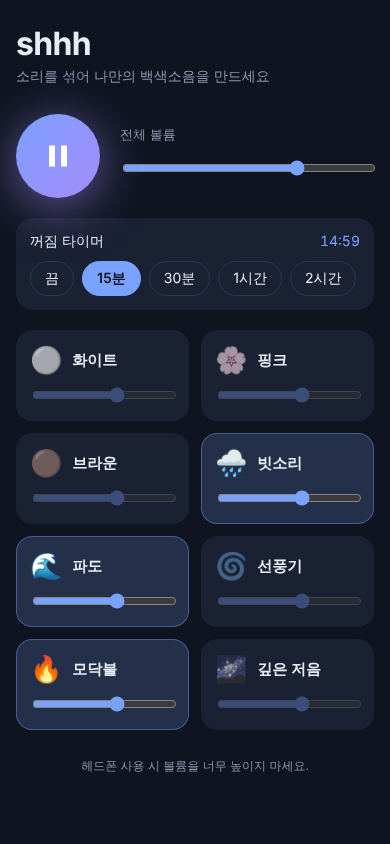
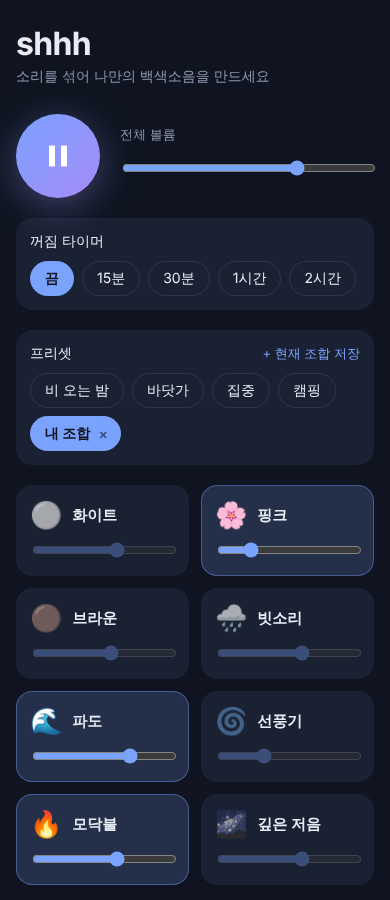
프리셋 저장 기능 추가
기본 프리셋 4종(비 오는 밤, 바닷가, 집중, 캠핑)과 현재 소리 조합을
이름 붙여 저장/불러오기/삭제하는 기능. 현재 조합과 일치하는 프리셋 강조.
삭제/덮어쓰기 확인은 브라우저 대화상자 대신 화면 안에서 처리.

Claude-Session: https://claude.ai/code/session_012LiPeNdYmeGdPvMoY54dFu

diff --git a/app.js b/app.js
@@ -12,11 +12,24 @@
   const tpl = $('#sound-tpl');
   const remainingEl = $('#remaining');
   const chips = document.querySelectorAll('#timer-chips .chip');
+  const presetList = $('#preset-list');
+  const presetForm = $('#preset-form');
+  const presetName = $('#preset-name');
+  const presetSave = $('#preset-save');
+
+  // 기본 제공 프리셋 (삭제 불가). mix: 소리 id -> 볼륨
+  const BUILTIN_PRESETS = [
+    { id: 'b-rain', name: '비 오는 밤', mix: { rain: 60, deep: 35 } },
+    { id: 'b-sea', name: '바닷가', mix: { ocean: 70, pink: 20 } },
+    { id: 'b-focus', name: '집중', mix: { brown: 55, fan: 30 } },
+    { id: 'b-camp', name: '캠핑', mix: { fire: 65, rain: 25 } },
+  ];
 
   const state = load() || {
     master: 70,
     sounds: { rain: { on: true, vol: 60 } },
   };
+  if (!Array.isArray(state.presets)) state.presets = [];
 
   let ctx = null;
   let masterGain = null;
@@ -180,6 +193,118 @@
     }
   }
 
+  // ---------- 프리셋 ----------
+  function currentMix() {
+    const mix = {};
+    Noise.sounds.forEach((s) => {
+      const st = soundState(s.id);
+      if (st.on) mix[s.id] = st.vol;
+    });
+    return mix;
+  }
+
+  function sameMix(a, b) {
+    const ka = Object.keys(a);
+    return ka.length === Object.keys(b).length && ka.every((k) => a[k] === b[k]);
+  }
+
+  function applyPreset(preset) {
+    Noise.sounds.forEach((s) => {
+      const st = soundState(s.id);
+      const vol = preset.mix[s.id];
+      st.on = vol != null;
+      if (st.on) st.vol = vol;
+      if (!playing) return;
+      if (!st.on) stopSound(s.id);
+      else if (nodes[s.id]) ramp(nodes[s.id].gain.gain, curve(st.vol), FADE);
+      else startSound(s);
+    });
+    if (!playing) play();
+    render();
+    save();
+  }
+
+  function savePreset(name) {
+    const mix = currentMix();
+    const existing = state.presets.find((p) => p.name === name);
+    if (existing) existing.mix = mix;
+    else state.presets.push({ id: 'u-' + Date.now(), name, mix });
+    save();
+    renderPresets();
+  }
+
+  function deletePreset(id) {
+    state.presets = state.presets.filter((p) => p.id !== id);
+    save();
+    renderPresets();
+  }
+
+  function renderPresets() {
+    const mix = currentMix();
+    presetList.textContent = '';
+    BUILTIN_PRESETS.concat(state.presets).forEach((p) => {
+      const el = document.createElement('div');
+      el.className = 'preset' + (sameMix(p.mix, mix) ? ' active' : '');
+
+      const apply = document.createElement('button');
+      apply.className = 'apply';
+      apply.textContent = p.name;
+      apply.addEventListener('click', () => applyPreset(p));
+      el.appendChild(apply);
+
+      if (p.id.startsWith('u-')) {
+        const del = document.createElement('button');
+        del.className = 'del';
+        del.textContent = '×';
+        del.setAttribute('aria-label', p.name + ' 삭제');
+        // 한 번 누르면 '삭제' 확인 상태, 다시 누르면 삭제
+        del.addEventListener('click', () => {
+          if (el.classList.contains('confirm')) return deletePreset(p.id);
+          el.classList.add('confirm');
+          del.textContent = '삭제';
+          setTimeout(() => {
+            el.classList.remove('confirm');
+            del.textContent = '×';
+          }, 3000);
+        });
+        el.appendChild(del);
+      }
+      presetList.appendChild(el);
+    });
+  }
+
+  function closePresetForm() {
+    presetForm.hidden = true;
+    presetName.value = '';
+    updateSaveLabel();
+  }
+
+  // 같은 이름이 있으면 버튼이 '덮어쓰기'로 바뀜
+  function updateSaveLabel() {
+    const name = presetName.value.trim();
+    presetSave.textContent = state.presets.some((p) => p.name === name) ? '덮어쓰기' : '저장';
+  }
+  presetName.addEventListener('input', updateSaveLabel);
+
+  $('#preset-add').addEventListener('click', () => {
+    if (!anyOn()) {
+      presetName.placeholder = '먼저 소리를 하나 이상 켜세요';
+    } else {
+      presetName.placeholder = '프리셋 이름';
+    }
+    presetForm.hidden = false;
+    presetName.focus();
+  });
+  $('#preset-cancel').addEventListener('click', closePresetForm);
+  presetName.addEventListener('keydown', (e) => { if (e.key === 'Escape') closePresetForm(); });
+  presetForm.addEventListener('submit', (e) => {
+    e.preventDefault();
+    const name = presetName.value.trim();
+    if (!name || !anyOn()) return;
+    savePreset(name);
+    closePresetForm();
+  });
+
   // ---------- UI ----------
   function updatePlayUI() {
     playBtn.setAttribute('aria-pressed', String(playing));
@@ -197,6 +322,7 @@
       el.querySelector('.toggle').setAttribute('aria-pressed', String(st.on));
       el.querySelector('.vol').value = st.vol;
     });
+    renderPresets();
   }
 
   function build() {
@@ -231,6 +357,7 @@
         } else if (nodes[s.id]) {
           ramp(nodes[s.id].gain.gain, curve(st.vol), 0.05);
         }
+        renderPresets();
         save();
       });
 

diff --git a/style.css b/style.css
@@ -6,6 +6,8 @@
   --muted: #8b95ad;
   --accent: #7aa2ff;
   --accent-2: #a78bfa;
+  --danger: #ff8a8a;
+  color-scheme: dark;
 }
 
 * { box-sizing: border-box; }
@@ -23,7 +25,9 @@ button { font: inherit; color: inherit; cursor: pointer; }
 .app {
   max-width: 520px;
   margin: 0 auto;
-  padding: calc(24px + env(safe-area-inset-top)) 16px calc(32px + env(safe-area-inset-bottom));
+  padding-block: calc(24px + env(safe-area-inset-top, 0px)) calc(32px + env(safe-area-inset-bottom, 0px));
+  padding-left: max(16px, env(safe-area-inset-left, 0px));
+  padding-right: max(16px, env(safe-area-inset-right, 0px));
 }
 
 .top h1 {
@@ -129,3 +133,75 @@ input[type="range"] {
 .sound.on .vol { opacity: 1; }
 
 .foot { margin-top: 28px; text-align: center; color: var(--muted); font-size: 12px; }
+
+.presets {
+  background: var(--card);
+  border-radius: 16px;
+  padding: 14px;
+  margin-bottom: 20px;
+}
+.presets-head {
+  display: flex;
+  justify-content: space-between;
+  align-items: center;
+  font-size: 14px;
+  margin-bottom: 10px;
+}
+.link {
+  border: 0;
+  background: none;
+  padding: 0;
+  color: var(--accent);
+  font-size: 13px;
+}
+.preset-form {
+  display: flex;
+  gap: 8px;
+  margin-bottom: 10px;
+}
+.preset-form[hidden] { display: none; }
+.preset-form input {
+  flex: 1;
+  min-width: 0;
+  border: 1px solid #2c3650;
+  background: var(--bg);
+  color: var(--text);
+  border-radius: 999px;
+  padding: 7px 14px;
+  font: inherit;
+  font-size: 16px; /* iOS 확대 방지 */
+}
+.preset-form input:focus { outline: none; border-color: var(--accent); }
+
+.preset {
+  display: inline-flex;
+  align-items: center;
+  border: 1px solid #2c3650;
+  border-radius: 999px;
+}
+.preset.active { background: var(--accent); border-color: var(--accent); color: #0f1420; font-weight: 600; }
+.preset .apply {
+  border: 0;
+  background: none;
+  color: inherit;
+  padding: 7px 14px;
+  font-size: 14px;
+}
+.preset .del {
+  border: 0;
+  background: none;
+  color: inherit;
+  opacity: 0.6;
+  padding: 7px 12px 7px 0;
+  margin-left: -6px;
+  font-size: 14px;
+}
+.preset .del:hover { opacity: 1; }
+.empty { color: var(--muted); font-size: 13px; }
+
+.preset.confirm { border-color: var(--danger); }
+.preset.confirm .del { color: var(--danger); opacity: 1; font-weight: 600; }
+button:focus-visible, input:focus-visible { outline: 2px solid var(--accent); outline-offset: 2px; }
+@media (prefers-reduced-motion: reduce) {
+  .play[aria-pressed="true"] { animation: none; }
+}

diff --git a/index.html b/index.html
@@ -44,6 +44,19 @@
       </div>
     </section>
 
+    <section class="presets" aria-label="프리셋">
+      <div class="presets-head">
+        <span>프리셋</span>
+        <button id="preset-add" class="link">+ 현재 조합 저장</button>
+      </div>
+      <form id="preset-form" class="preset-form" hidden>
+        <input id="preset-name" type="text" maxlength="20" placeholder="프리셋 이름" autocomplete="off" required>
+        <button type="submit" id="preset-save" class="chip active">저장</button>
+        <button type="button" id="preset-cancel" class="chip">취소</button>
+      </form>
+      <div class="chips" id="preset-list"></div>
+    </section>
+
     <section class="sounds" id="sounds" aria-label="소리 목록"></section>
 
     <footer class="foot">헤드폰 사용 시 볼륨을 너무 높이지 마세요.</footer>

diff --git a/sw.js b/sw.js
@@ -1,5 +1,5 @@
 // 오프라인에서도 앱이 열리도록 정적 파일을 캐시합니다.
-const CACHE = 'shhh-v1';
+const CACHE = 'shhh-v2';
 const FILES = ['./', 'index.html', 'style.css', 'noise.js', 'app.js', 'manifest.webmanifest', 'icon.svg'];
 
 self.addEventListener('install', (e) => {
